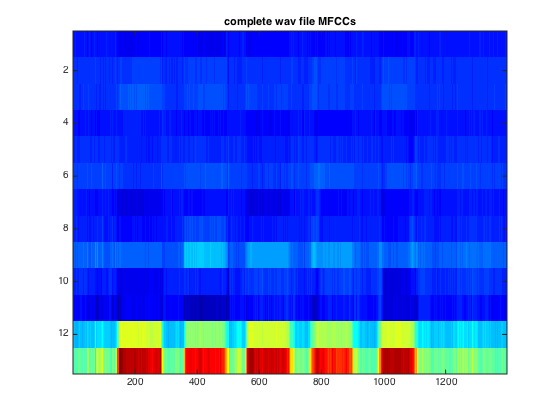
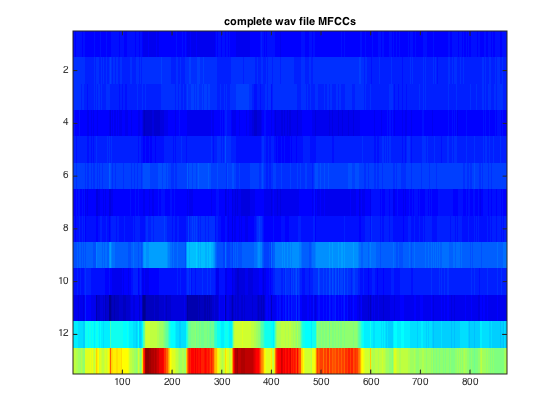
blarg blarg

diff --git a/src/mlsp/cs/cmu/edu/filters/DiscreteCosineTransform.java b/src/mlsp/cs/cmu/edu/filters/DiscreteCosineTransform.java
@@ -1,5 +1,6 @@
 package mlsp.cs.cmu.edu.filters;
 
+import mlsp.cs.cmu.edu.audio.AudioConstants;
 import mlsp.cs.cmu.edu.features.MFCCFeatureVectorContainer;
 
 import org.apache.commons.math3.transform.DctNormalization;
@@ -8,7 +9,7 @@ import org.apache.commons.math3.transform.TransformType;
 
 public class DiscreteCosineTransform extends FrameFilter {
 
-  private FastCosineTransformer dct = new FastCosineTransformer(DctNormalization.STANDARD_DCT_I);
+  private FastCosineTransformer dct = new FastCosineTransformer(DctNormalization.ORTHOGONAL_DCT_I);
   
   @Override
   protected double[] doFilterImplementation(double[] frame) {
@@ -17,6 +18,7 @@ public class DiscreteCosineTransform extends FrameFilter {
     return frame;
   }
 
+  /*
   private double[] getPowerOfTwoArrayPlusOne(double[] frame) {
     int padding = 2;
     while (padding < frame.length) {
@@ -26,7 +28,14 @@ public class DiscreteCosineTransform extends FrameFilter {
     System.arraycopy(frame, 0, signal, 0, frame.length);
     return signal;
   }
+  */
   
+  private double[] getPowerOfTwoArrayPlusOne(double[] frame) {
+    double[] newFrame = new double[AudioConstants.DCT_SIZE.getValue() + 1]; 
+    System.arraycopy(frame, 0, newFrame, 0, frame.length);
+    return newFrame;
+  }
+
   @Override
   public String getName() {
     return "Discrete Cosine Transform";
@@ -34,7 +43,7 @@ public class DiscreteCosineTransform extends FrameFilter {
 
   @Override
   public void visit(MFCCFeatureVectorContainer container) {
-    container.addMFCCFeatureFrame(getLastProcessedFrame());
+    // do nothing...
   }
 
 }

diff --git a/src/mlsp/cs/cmu/edu/filters/InverseDiscreteCosineTransform.java b/src/mlsp/cs/cmu/edu/filters/InverseDiscreteCosineTransform.java
@@ -1,14 +1,15 @@
-package mlsp.cs.cmu.edu.features;
+package mlsp.cs.cmu.edu.filters;
 
 import org.apache.commons.math3.transform.DctNormalization;
 import org.apache.commons.math3.transform.FastCosineTransformer;
 import org.apache.commons.math3.transform.TransformType;
 
-import mlsp.cs.cmu.edu.filters.FrameFilter;
+import mlsp.cs.cmu.edu.audio.AudioConstants;
+import mlsp.cs.cmu.edu.features.MFCCFeatureVectorContainer;
 
 public class InverseDiscreteCosineTransform extends FrameFilter {
   
-  FastCosineTransformer dct = new FastCosineTransformer(DctNormalization.STANDARD_DCT_I);
+  FastCosineTransformer dct = new FastCosineTransformer(DctNormalization.ORTHOGONAL_DCT_I);
   
   @Override
   protected double[] doFilterImplementation(double[] frame) {
@@ -17,6 +18,7 @@ public class InverseDiscreteCosineTransform extends FrameFilter {
     return frame;
   }
 
+  /*
   private double[] getPowerOfTwoArrayPlusOne(double[] frame) {
     int padding = 2;
     while (padding < frame.length) {
@@ -25,6 +27,13 @@ public class InverseDiscreteCosineTransform extends FrameFilter {
     double[] signal = new double[padding + 1];
     System.arraycopy(frame, 0, signal, 0, frame.length);
     return signal;
+  }
+  */
+
+  private double[] getPowerOfTwoArrayPlusOne(double[] frame) {
+    double[] newFrame = new double[AudioConstants.IDCT_SIZE.getValue() + 1]; 
+    System.arraycopy(frame, 0, newFrame, 0, frame.length);
+    return newFrame;
   }
 
   @Override

diff --git a/src/mlsp/cs/cmu/edu/filters/DiscreteFourierTransform.java b/src/mlsp/cs/cmu/edu/filters/DiscreteFourierTransform.java
@@ -1,5 +1,6 @@
 package mlsp.cs.cmu.edu.filters;
 
+import mlsp.cs.cmu.edu.audio.AudioConstants;
 import mlsp.cs.cmu.edu.features.MFCCFeatureVectorContainer;
 
 import org.apache.commons.math3.complex.Complex;
@@ -17,7 +18,6 @@ public class DiscreteFourierTransform extends FrameFilter {
   @Override
   protected double[] doFilterImplementation(double[] frame) {
     double[] signal = getPowerOfTwoArray(frame);
-    System.arraycopy(frame, 0, signal, 0, frame.length);
     Complex[] complex = fft.transform(signal, TransformType.FORWARD);
     frame = new double[complex.length/2+1];
     for (int i = 0; i < frame.length; i++) {
@@ -28,6 +28,7 @@ public class DiscreteFourierTransform extends FrameFilter {
     return frame;
   }
   
+  /*
   private double[] getPowerOfTwoArray(double[] frame) {
     int padding = 2;
     while (padding < frame.length) {
@@ -36,7 +37,15 @@ public class DiscreteFourierTransform extends FrameFilter {
     double[] signal = new double[padding];
     System.arraycopy(frame, 0, signal, 0, frame.length);
     return signal;
+  }*/
+
+  private double[] getPowerOfTwoArray(double[] frame) {
+    double[] signal = new double[AudioConstants.FFT_BINS.getValue()];
+    System.arraycopy(frame, 0, signal, 0, frame.length);
+    return signal;
   }
+
+
 
   @Override
   public String getName() {

diff --git a/src/mlsp/cs/cmu/edu/features/MFCCFeatureVectorContainer.java b/src/mlsp/cs/cmu/edu/features/MFCCFeatureVectorContainer.java
@@ -6,8 +6,6 @@ import java.io.IOException;
 import java.util.ArrayList;
 
 import mlsp.cs.cmu.edu.audio.AudioConstants;
-import mlsp.cs.cmu.edu.filters.FrameFilter;
-import mlsp.cs.cmu.edu.filters.MFCC;
 import mlsp.cs.cmu.edu.segmentation.Segment;
 
 public class MFCCFeatureVectorContainer {
@@ -18,8 +16,6 @@ public class MFCCFeatureVectorContainer {
 
   private ArrayList<double[]> recoveredLogMelSpectrum = new ArrayList<double[]>();
   
-  private FrameFilter mfccFilter = new MFCC();
-
   private String segmentName;
 
   private final String sep = System.getProperty("file.separator");
@@ -78,7 +74,7 @@ public class MFCCFeatureVectorContainer {
   }
 
   public void addMFCCFeatureFrame(double[] frame) {
-    this.MFCCs.add(mfccFilter.doFilter(frame));
+    this.MFCCs.add(frame);
   }
 
   public void addRecoveredLogMelSpectrumFeatureFrame(double[] frame) {

diff --git a/src/mlsp/cs/cmu/edu/features/AudioFeatureExtractor.java b/src/mlsp/cs/cmu/edu/features/AudioFeatureExtractor.java
@@ -3,6 +3,7 @@ package mlsp.cs.cmu.edu.features;
 import mlsp.cs.cmu.edu.filters.DiscreteFourierTransform;
 import mlsp.cs.cmu.edu.filters.HammingWindow;
 import mlsp.cs.cmu.edu.filters.DiscreteCosineTransform;
+import mlsp.cs.cmu.edu.filters.InverseDiscreteCosineTransform;
 import mlsp.cs.cmu.edu.filters.LogMelSpectrum;
 import mlsp.cs.cmu.edu.filters.MFCC;
 import mlsp.cs.cmu.edu.filters.MelSpectrum;
@@ -26,6 +27,7 @@ public class AudioFeatureExtractor extends FeatureExtractor {
     attachFilter(new MelSpectrum());
     attachFilter(new LogMelSpectrum());
     attachFilter(new DiscreteCosineTransform());
+    attachFilter(new MFCC());
     attachFilter(new InverseDiscreteCosineTransform());
   }
 

diff --git a/src/mlsp/cs/cmu/edu/audio/AudioConstants.java b/src/mlsp/cs/cmu/edu/audio/AudioConstants.java
@@ -2,8 +2,20 @@ package mlsp.cs.cmu.edu.audio;
 
 public enum AudioConstants {
 
-  MONO(1), STEREO(2), KHZ16(16000), KHZ441(44100), KHZ16BUFFER(320), FRAMESHIFT(10), FRAMESIZE(25), 
-  MELFREQUENCY_MAX_16KHZ(6800), MELFREQUENCY_MIN_16KHZ(100), MELFREQUENCY_BINS(40), MFCC_SIZE(13);
+  MONO(1), 
+  STEREO(2), 
+  KHZ16(16000), 
+  KHZ441(44100), 
+  KHZ16BUFFER(320), 
+  FRAMESHIFT(10), 
+  FRAMESIZE(25), 
+  MELFREQUENCY_MAX_16KHZ(6800), 
+  MELFREQUENCY_MIN_16KHZ(100), 
+  FFT_BINS(512), 
+  MELFREQUENCY_BINS(40), 
+  MFCC_SIZE(13), 
+  DCT_SIZE(64), 
+  IDCT_SIZE(128);
 
   private final int value; // Whatever the constant is
 

diff --git a/src/mlsp/cs/cmu/edu/filters/MFCC.java b/src/mlsp/cs/cmu/edu/filters/MFCC.java
@@ -20,7 +20,7 @@ public class MFCC extends FrameFilter {
 
   @Override
   public void visit(MFCCFeatureVectorContainer container) {
-    //container.addMFCCFeatureFrame(getLastProcessedFrame());
+    container.addMFCCFeatureFrame(getLastProcessedFrame());
   }
 
 }
